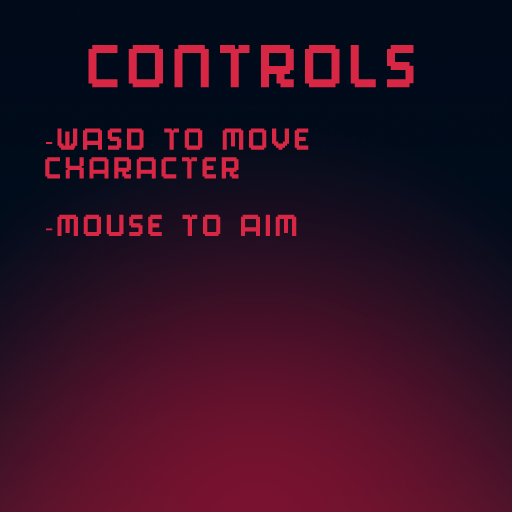
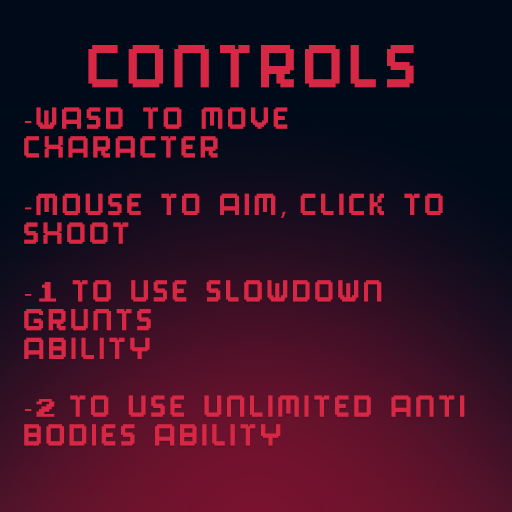
ABILITIES UPDATE
- Added 2 abilities to the game (Grunt Slowdown and Unlimited Antibodies)

- Added procedural damage to the boss battle

- Updated Controls page

diff --git a/HW6/js/Game.js b/HW6/js/Game.js
@@ -48,23 +48,24 @@ var maxWave = 3; //The enemy spawn loop terminates after the third wave
 var gameOver = false;
 var aimer;
 var enemyGrunts; //Physics Group for enemy grunts
-var gruntMinSpeed = 20;
-var gruntMaxSpeed = 50;
+var gruntMinSpeed = 30;
+var gruntMaxSpeed = 60;
 var gruntAmount = currentWave * 2; //Amount to spawn
 var projectile;
 var lungsBG;
 var boss; //Boss physics image
 var bossHealth = 100; //One boss is 10x tougher than one grunt
-var bossSpeed = 25;
+var bossSpeed = 30;
 var player; //Player physics image
 var playerAmmoCnt = 3; //Player Ammo Count
 var playerBullets; //Bullets Physics Group
-var playerMoney = 0; //Amount of money player has collected 
+var playerCalories = 0; //Amount of money player has collected 
 var bCellAmmo;
 var bCellAmmoCnt = 5;
-var textStyle = {font: "32px Roboto", fill: '#ed1818', stroke: '#000', align:'center', strokeThickness: 8};
+var textStyle = {font: "24px Roboto", fill: '#ed1818', stroke: '#000', align:'center', strokeThickness: 8};
 var waveStatStyle = {font: "16px Roboto", fill: '#ed1818', stroke: '#000', align:'left', strokeThickness: 4};
 var playerStatStyle = {font: "16px Roboto", fill: '#ed1818', stroke: '#000', align:'right', strokeThickness: 4};
+
 class Game extends Phaser.Scene{
     constructor(){
         super("playGame");
@@ -76,10 +77,30 @@ class Game extends Phaser.Scene{
         enemyGrunts.createMultiple({
             key: 'enemyGrunt', 
             repeat: gruntAmount - 1,
-            setXY: { x: 60, y: 0, stepX: 60 } 
+            setXY: { x: (Phaser.Math.Between(0, config.width)), y: 0, stepX: 0 } 
         }) //Call the spawner
         enemyGrunts.children.iterate(function(child){
             child.setVelocity(0, Phaser.Math.FloatBetween(gruntMinSpeed, gruntMaxSpeed));
+        });
+    }
+
+    //Slowdown Grunt Ability
+    slowdownGruntAbility(){
+        enemyGrunts.children.iterate(function(child){
+            child.body.velocity.y /= 3; //Slowdown the y component velocities of every grunt by 66%  
+        });
+        this.time.delayedCall(1000 * 6, ()=>{
+            enemyGrunts.children.iterate(function(child){
+                child.body.velocity.y *= 3; //After 6 secs, reset the y component velocities of the grunts back to their original speed 
+            }); 
+        });
+    }
+
+    //Function to handle unlimited ammo ability
+    unlimitedAmmoAbility(){
+        playerAmmoCnt = 99; //Give the plyaer 99 antibodies (effectively unlimited given how fast players can click)
+        this.time.delayedCall(1000 * 3, ()=>{
+            playerAmmoCnt = 0; //After 3 secs, reset player antibodies to 0
         });
     }
 
@@ -141,16 +162,16 @@ class Game extends Phaser.Scene{
         // Shoot whenever the left mouse button is pressed
         this.input.on('pointerdown', (pointer, time, lastFired)=>{
             if (playerAmmoCnt > 0){
-                    playerAmmoCnt -= 1;
-                    // Get projectile from bullets group
-                    projectile = playerBullets.get().setActive(true).setVisible(true);
-                    // Checks if projectile is actually initialized
-                    if (projectile){ 
-                        this.shootSound.play();
-                        projectile.fire(player, aimer);
-                    }  
-                }
-            }, this);
+                playerAmmoCnt -= 1;
+                // Get projectile from bullets group
+                projectile = playerBullets.get().setActive(true).setVisible(true);
+                // Checks if projectile is actually initialized
+                if (projectile){ 
+                    this.shootSound.play();
+                    projectile.fire(player, aimer);
+                }  
+            }
+        }, this);
     
         // Sync up the aimer to the mouse cursor/pointer
         // Pointer lock will only work after mousedown
@@ -185,7 +206,50 @@ class Game extends Phaser.Scene{
         this.victoryText.visible = false;
         //GUI Related Text
         this.currentWaveText = this.add.text(4,4, 'Current Wave: ' + currentWave + '\nEnemies Left: ' + gruntAmount, waveStatStyle);
-        this.playerStatsText = this.add.text(config.width - 100, 4, 'Calories: ' + playerMoney + '\nAntibodies: ' + playerAmmoCnt, playerStatStyle);
+        this.playerStatsText = this.add.text(config.width - 106, 4, 'Calories: ' + playerCalories + '\nAntibodies: ' + playerAmmoCnt, playerStatStyle);
+        //Ability Related Text
+        this.abilityOneText = this.add.text(config.width / 2, config.height / 2, 'All viruses move at half speed for 6 secs!', textStyle).setOrigin(0.5, 0.5);
+        this.abilityOneText.visible = false;
+        this.abilityTwoText = this.add.text(config.width / 2, config.height / 2, 'Unlimited Antibodies for 3 seconds!', textStyle).setOrigin(0.5, 0.5); //Wave start text
+        this.abilityTwoText.visible = false;
+        this.calorieText = this.add.text(config.width / 2, config.height / 2, 'Not enough calories! :(', textStyle).setOrigin(0.5, 0.5);
+        this.calorieText.visible = false;
+
+        // Slow Grunt Ability Event Caller
+        this.input.keyboard.on('keydown_ONE', (event)=>{
+            if (playerCalories >= 30){
+                this.abilityOneText.visible = true; //Let the player know they activated the ability
+                this.time.delayedCall(1000 * 1.5, ()=>{
+                    this.abilityOneText.visible = false; //Make the text disappear and then grant the ability
+                });
+                this.slowdownGruntAbility(); //Call the slowdownGruntAbility to cut velocity of all grunts by 50%
+                playerCalories -= 30; //Deduct 40 calories from the player for spending it on the ability
+            }
+            else{
+                this.calorieText.visible = true; //Notify players that they don't have enough calories to purchase the ability
+                this.time.delayedCall(1000 * 0.75, ()=>{
+                    this.calorieText.visible = false; //Then make the notification disappear
+                });
+            }
+        });
+
+        // Unlimited Ammo Ability Event Caller
+        this.input.keyboard.on('keydown_TWO', (event)=>{
+            if (playerCalories >= 60){
+                this.abilityTwoText.visible = true; //Let the player know they activated the ability
+                this.time.delayedCall(1000 * 1.5, ()=>{
+                    this.abilityTwoText.visible = false; //Make the text disappear and then grant the ability
+                });
+                this.unlimitedAmmoAbility(); //Call the unlimited ammo ability to modify player antibody counts
+                playerCalories -= 60; //Deduct 60 calories from the player for spending it on the ability
+            }
+            else{
+                this.calorieText.visible = true; //Notify players that they don't have enough calories to purchase the ability
+                this.time.delayedCall(1000 * 0.75, ()=>{
+                    this.calorieText.visible = false; //Then make the notification disappear
+                });
+            }
+        });
 
         //Initializes enemyGrunts group
         this.introText.visible = true;
@@ -254,10 +318,9 @@ class Game extends Phaser.Scene{
                         boss.body.moves = true; //Allow it to move
                     }); 
                 }
-                
+                //Boss Death - ENDGAME BRANCH
                 if (bossHealth <= 0){
                     this.bossDeathSound.play();
-                    boss.setTint(0xff0000);
                     boss.setVelocity(0, -60);
                     this.victoryText.visible = true;
                     this.winSound.play(); //Play game over win sound
@@ -267,7 +330,7 @@ class Game extends Phaser.Scene{
             else{
                 currentWave += 1; //Increment the wave amount to make more baddies spawn
                 gruntAmount = currentWave * 2; //Spawn twice as many grunts next wave
-                playerMoney += 10; //Add 10 money just for beating the wave
+                playerCalories += 10; //Add 10 money just for beating the wave
                 this.nextWaveText.visible = true; //Tell the player the next wave is coming and then soawn the, after 3 secs
                 this.time.delayedCall(1000 * 3, () => {
                     this.nextWaveText.visible = false;
@@ -277,7 +340,7 @@ class Game extends Phaser.Scene{
         }
 
         this.currentWaveText.setText('Current Wave: ' + currentWave + '\nEnemies Left: ' + gruntAmount);
-        this.playerStatsText.setText('Calories: ' + playerMoney + '\nAntibodies: ' + playerAmmoCnt);
+        this.playerStatsText.setText('Calories: ' + playerCalories + '\nAntibodies: ' + playerAmmoCnt);
         this.background.tilePositionY += 0.15; //Scroll the background for a parallax feel
         bCellAmmo.angle += 1; //Rotate the B-Cell's for a nice ammo wheel effect
         // Rotates player to face towards the mouse cursor
@@ -302,6 +365,16 @@ function bossHitCallback(bossHit, bulletHit){
         this.bossHitSound.play();
         bossHealth -= 5; //Reduce the boss's health
         bulletHit.destroy(); //Delete the bullet on hit
+        //Procedural damage to the boss based on health remaining
+        if (40 < bossHealth && bossHealth < 76 ){ //Boss health is between [41 to 75]
+           boss.setTint(0xff9797); 
+        }
+        else if (0 < bossHealth && bossHealth < 41){ //Boss health is between [1 to 40]
+            boss.setTint(0xff5c5c);
+        }
+        else if (bossHealth <= 0){
+            boss.setTint(0xff0000); //Boss Died
+        }
     }
 }
 
@@ -311,7 +384,7 @@ function collectGruntCallback(player, enemyHit){
         this.collectGruntSound.play();
         enemyHit.destroy(); //Destroy the hitgrunt Completely
         gruntAmount -= 1;
-        playerMoney += 5; //Give the player 5 money every time the player collects a grunt
+        playerCalories += 5; //Give the player 5 money every time the player collects a grunt
     }
 }
 

diff --git a/HW6/index.html b/HW6/index.html
@@ -43,6 +43,8 @@
                 <br/>
                 - Added actual Boss Battle logic and functionality
                 <br/>
+                - Added Procedural Damage to Boss to serve as visual Health Bar
+                <br/>
                 - Lots of polish and bug fixes
             </li>
             <li><strong>ITERATION 1 CHANGES:</strong>
